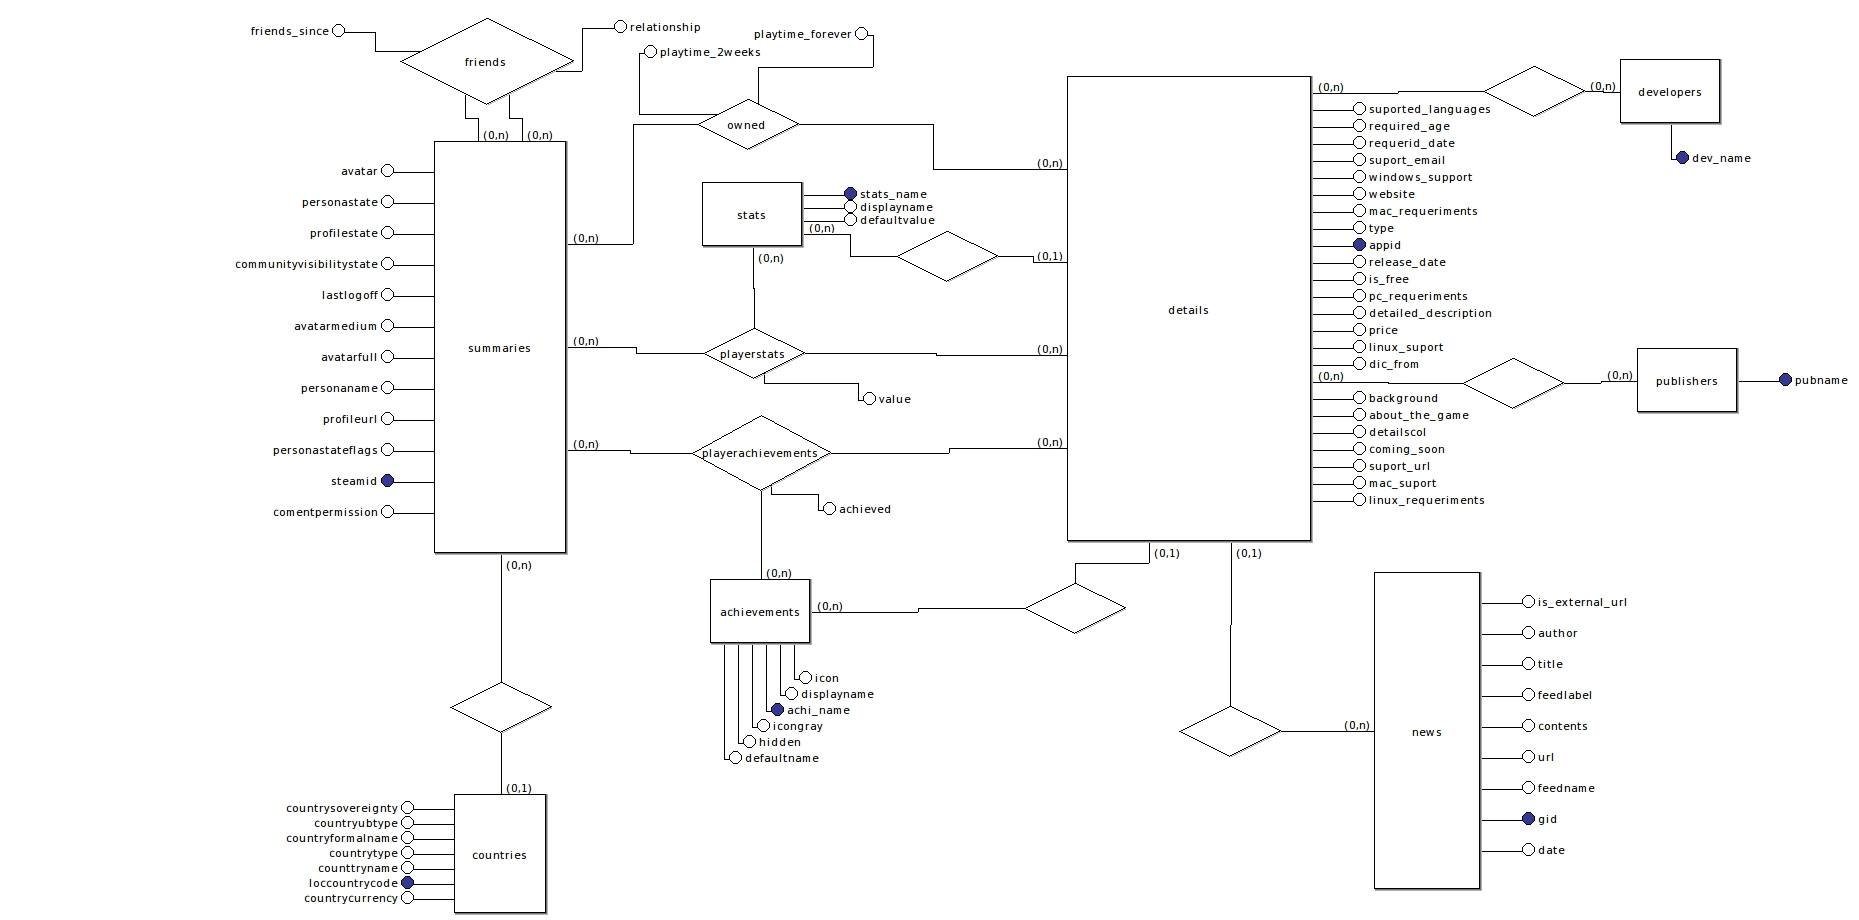
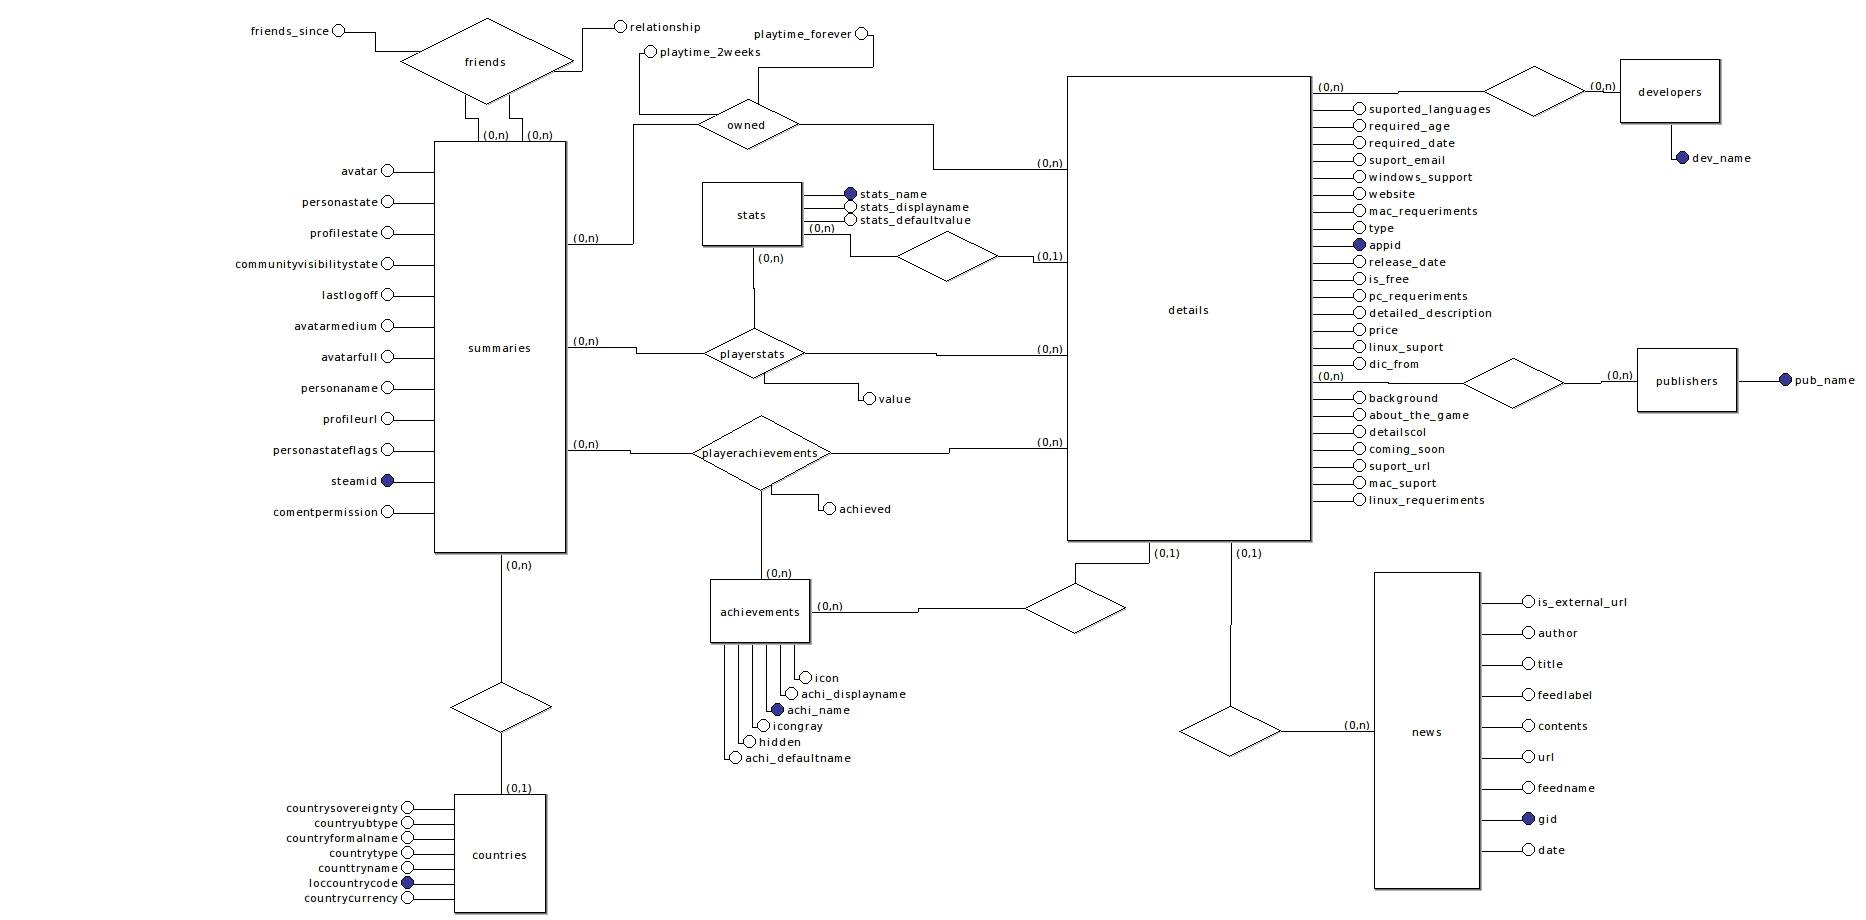
Add consultas, atualizando modelos

diff --git a/interface/relacional.html b/interface/relacional.html
@@ -58,13 +58,13 @@ achievements (  <u>appid</u> ,  <u>achi_name</u> ,  defaultvalue ,  displayname 
   appid     REFERENCES details (appid)
 
 
-stats (  <u>appid</u>,  <u>stats_name</u>,  defaultvalue,  displayname)
+stats (  <u>appid</u>,  <u>stats_name</u>,  stats_defaultvalue,  stats_displayname)
 
 appid  REFERENCES details (appid)
 
 
 playerstats ( <u>steamid</u> ,  <u>appid</u> ,  <u>stats_name</u>,  value ,
-  steamid        REFERENCES sumaries (steamid)
+  steamid        REFERENCES summaries (steamid)
   appid          REFERENCES details (appid)
   stats_name     REFERENCES stats (stats_name)
 

diff --git a/interface/grupo.html b/interface/grupo.html
@@ -45,12 +45,13 @@
 
 
     <div class="container">
-      <h2>Integrantes</h2>
+      <h3>Líder</h3>
+      <p>Marco Antônio     </p>
       
-      <p>Hugo Rocha Pimenta - 2012054883</p>
-      <p>Miller Ferreira    - MATRICULA</p>
-      <p>Marco Antônio      - MATRICULA</p>
-      <p>Vinicius Morais    - MATRICULA</p>
+      <h3>Integrantes</h3>
+      <p>Hugo Rocha Pimenta</p>
+      <p>Miller Ferreira   </p>
+      <p>Vinicius Morais   </p>
 
     </div><!-- /.container -->
 

diff --git a/interface/er.html b/interface/er.html
@@ -42,7 +42,9 @@
       </div>
     </nav>
 
-   
+    <div>
+    	<img class="img-responsive" src=er.jpg alt="Modelo ER">
+    </div>
     <!-- jQuery (necessary for Bootstrap's JavaScript plugins) -->
     <script src="https://ajax.googleapis.com/ajax/libs/jquery/1.11.3/jquery.min.js"></script>
     <!-- Include all compiled plugins (below), or include individual files as needed -->

diff --git a/interface/index.php b/interface/index.php
@@ -55,12 +55,46 @@
     <div class="form-group">
       <select class="form-control" id="dropdownlist">
         <option value=""> SELECIONE SUA PESQUISA</option>
-        <option value="SELECT movie_name FROM movie M, role R, role_type T, person P WHERE M.movie_id = R.movie_id AND R.person_id = P.person_id AND R.role_type_id = T.role_type_id AND person_name = &quotSpielberg, Steven&quot AND type_name = &quotdirector&quot ;">
-                        Selecionar todos os filmes nos quais Steven Spielberg foi diretor</option>
-        <option value="SELECT  person_id as id, person_name as name, movie_name as movie FROM movie NATURAL JOIN role NATURAL JOIN person WHERE person_name=&quotMcKellen, Ian&quot ;">
-                        Selecionar o id, nome e nome do filme que Ian Mckellen participou</option>
-        <option value="text3">text3</option>rnatively, you can delimit the attribute value with single quotes:
-        <option value="text4">text4</option>
+
+        <option value="select countryformalname , sum(price) from countries natural join summaries natural join owned natural join details where is_free = 0 group by countryformalname order by sum(price);">
+                      Mostrar o nome do país seguido de o total gasto por jogos não gratis</option>
+                      </option>
+
+        <option value="select appid from details where linux_support = 1 and appid not in (select distinct appid from details natural join news);">
+                      Mostrar os appid dos jogos que possuem suporte para linux e não possuem alguma notícia</option>
+        
+        <option value="select appid from details where linux_support = 1 and mac_support = 1 and windows_support = 1 order by appid;">
+                      Mostrar o appid dos jogos que possuem suporte para todas as plataformas</option>
+        
+        <option value="select steamid , personaname  , max(playtime_forever)  , appid from summaries natural join owned natural join details group by steamid;">
+                      Mostrar o id da pessoa e o nome e o id do jogo que ela mais jogou</option>
+        
+        <option value="select appid , count(steamid) , sum(playtime_forever) from summaries natural join owned natural join details group by appid ;">
+                      Mostrar o id e o total de players e o total de tempo jogado de cada jogo</option>
+        
+        <option value="select c1.countryformalname , aux.id , aux.nome , max(aux.total) from (select s.steamid as id, s.personaname as nome , s.loccountrycode as loccountrycode, count(pa.achieved) as total from summaries s natural join playerachievements pa group by s.steamid) aux natural join countries c1 group by c1.countryformalname order by max(total);">
+                      Mostrar o nome do país e o nome da pessoa que mais possui achievements</option>
+        
+        <option value="select appid , dev_name from developers natural join details natural join publishers where pub_name = dev_name order by appid;">
+                      Selecionar os jogos que possuem desenvolvedores e publicadores iguais</option>
+        
+        <option value="select steamid1 , steamid2  , a.appid from friends , owned a, owned b where a.steamid = steamid1 and b.steamid = steamid2 and a.appid = b.appid order by steamid1;">
+                      Para cada pessoa selecionar todos os amigos que possuem jogos em comum e mostrar o id do jogo</option>
+        
+        <option value="select steamid ,  personaname , CASE WHEN sum(price)>100 THEN &quotverdadeiro&quot ELSE &quotfalso&quot END from summaries natural join owned natural join details where is_free = false group by steamid ;">
+                      Mostrar verdadeiro se uma pessoa gastou mais que 100$ em jogos e falso caso contrario</option>
+        
+        <option value="select steamid , personaname , appid from summaries natural join owned natural join details where playtime_2weeks > 0 and supported_languages like '%Portuguese%';">
+                      Mostrar o nome da pessoa que jogou um jogo nas últimas 2 semanas que possui suporte para língua portuguesa</option>
+        
+        <option value="select c.countryformalname ,  count(distinct d.appid) /  aux.total  from countries c natural join summaries s natural join owned o natural join details d natural join (select c1.loccountrycode , count(distinct s1.steamid) as total from countries c1 natural join summaries s1 group by c1.loccountrycode) aux where d.is_free = false group by c.countryformalname;">
+                      Mostrar a porcentagem de jogadores que pagaram por algum jogo para cada país</option>
+        
+        <option value="select c.countryformalname , avg(aux.totalpessoa) from countries c natural join (select s.loccountrycode  , sum(d.price) as totalpessoa from summaries s natural join owned o natural join  details d where d.price > 0) aux group by c.countryformalname order by c.countryformalname;">
+                      Mostrar a média de dinherio gasto por pessoa por cada país</option>
+        
+        <option value="select personaname , appid from summaries natural join owned natural join details where playtime_forever = 0 and price > 0 ;">
+                      Selecionar o nome das pessoas e o jogo em que alguem comprou e nao jogou ainda</option>
       </select>
     </div>
 
